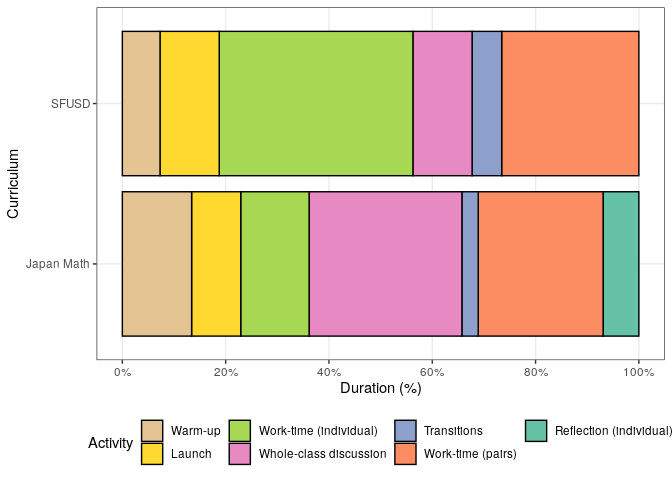
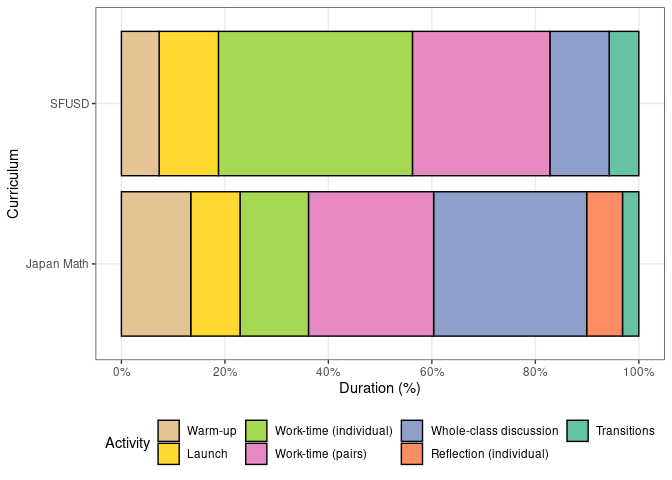
changes

diff --git a/bar_graphs.md b/bar_graphs.md
@@ -1,13 +1,17 @@
 Time charts for observed lessons
 ================
 Saurabh Khanna
-2020-04-22
+2020-04-27
 
   - [Time charts](#time-charts)
       - [Reading in data](#reading-in-data)
-      - [Graphs by percentage duration](#graphs-by-percentage-duration)
-      - [Graphs by total duration](#graphs-by-total-duration)
+      - [Graphs by grade level](#graphs-by-grade-level)
+          - [Percentage time](#percentage-time)
+          - [Total time](#total-time)
       - [SFUSD and JM](#sfusd-and-jm)
+      - [Old graphs](#old-graphs)
+          - [Percentage duration](#percentage-duration)
+          - [Total duration](#total-duration)
 
 ``` r
 # Libraries
@@ -22,60 +26,67 @@ library(readxl)
 ``` r
 df <-
   tribble(
-    ~school, ~teacher, ~act,                     ~time,
+    ~school, ~teacher, ~act,                     ~time, ~grade,
     
-    "S1",    "T1",     "Warm-up",                4,
-    "S1",    "T1",     "Launch",                 9,
-    "S1",    "T1",     "Work-time (individual)", 24,
-    "S1",    "T1",     "Whole-class discussion", 5,
-    "S1",    "T1",     "Transitions",             3,
+    "S1",    "T1",     "Warm-up",                4,     4,
+    "S1",    "T1",     "Launch",                 9,     4,
+    "S1",    "T1",     "Work-time (individual)", 24,    4,
+    "S1",    "T1",     "Whole-class discussion", 5,     4,
+    "S1",    "T1",     "Transitions",            3,     4,
     
-    "S1",    "T2",     "Warm-up",                2,
-    "S1",    "T2",     "Launch",                 8,
-    "S1",    "T2",     "Work-time (pairs)",      20,
-    "S1",    "T2",     "Whole-class discussion", 13,
-    "S1",    "T2",     "Transitions",             1,
+    "S1",    "T2",     "Warm-up",                2,     3,
+    "S1",    "T2",     "Launch",                 8,     3,
+    "S1",    "T2",     "Work-time (pairs)",      20,    3,
+    "S1",    "T2",     "Whole-class discussion", 13,    3,
+    "S1",    "T2",     "Transitions",             1,    3,
     
-    "S2",    "T1",     "Warm-up",                8,
-    "S2",    "T1",     "Launch",                 5,
-    "S2",    "T1",     "Work-time (pairs)",      14,
-    "S2",    "T1",     "Whole-class discussion", 4,  
-    "S2",    "T1",     "Transitions",             7,
+    "S2",    "T1",     "Warm-up",                8,     1,
+    "S2",    "T1",     "Launch",                 5,     1,
+    "S2",    "T1",     "Work-time (pairs)",      14,    1,
+    "S2",    "T1",     "Whole-class discussion", 4,     1,
+    "S2",    "T1",     "Transitions",             7,    1,
     
-    "S3",    "T2",     "Warm-up",                12,
-    "S3",    "T2",     "Launch",                 11,
-    "S3",    "T2",     "Work-time (pairs)",      17,
-    "S3",    "T2",     "Whole-class discussion", 20,
-    "S3",    "T2",     "Transitions",             4,
+    "S3",    "T2",     "Warm-up",                12,    2,
+    "S3",    "T2",     "Launch",                 11,    2,
+    "S3",    "T2",     "Work-time (pairs)",      17,    2,
+    "S3",    "T2",     "Whole-class discussion", 20,    2,
+    "S3",    "T2",     "Transitions",             4,    2,
     
-    "S3",    "T7",     "Warm-up",                9,
-    "S3",    "T7",     "Launch",                 10,
-    "S3",    "T7",     "Work-time (individual)", 23,
-    "S3",    "T7",     "Whole-class discussion", 29,
-    "S3",    "T7",     "Transitions",             4
+    "S3",    "T7",     "Warm-up",                9,     3,
+    "S3",    "T7",     "Launch",                 10,    3,
+    "S3",    "T7",     "Work-time (individual)", 23,    3,
+    "S3",    "T7",     "Whole-class discussion", 29,    3,
+    "S3",    "T7",     "Transitions",             4,    3
   ) %>%
   bind_rows(
     read_xlsx("data/ml_data.xlsx")
   ) %>%
   arrange(school, teacher) %>%
   mutate(
-    act = act %>% fct_inorder() %>% fct_rev(),
+    act = act %>% factor(levels = c("Warm-up", "Launch", "Work-time (individual)", "Work-time (pairs)", "Whole-class discussion", "Reflection (individual)", "Transitions")) %>% fct_rev(),
+  #  grade = grade %>% factor(levels = c("K", "1", "2", "3", "4", "5", "4/5")),
     teacher = teacher %>% fct_inorder() %>% fct_rev(),
     curriculum = if_else(school == "S3", "Japan Math", "SFUSD")
   )
 ```
 
-## Graphs by percentage duration
+## Graphs by grade level
+
+### Percentage time
 
 ``` r
-df %>%
+df %>% 
+  mutate(
+    teacher = teacher %>% fct_reorder2(school, grade)
+  ) %>% 
   group_by(school, teacher) %>%
   mutate(
    time = time / sum(time)
   ) %>%
   ungroup %>%
-  ggplot(aes(teacher, time, fill = act)) +
-  geom_col(position = "stack", color = "black") +
+  ggplot(aes(teacher, time)) +
+  geom_col(aes(fill = act), position = "stack", color = "black") +
+  geom_label(aes(x = teacher, y = 1.3, label = str_c("Grade ", grade)), hjust = 1) +
   scale_y_continuous(
     breaks = seq(0, 1, 0.2),
     minor_breaks = NULL,
@@ -95,16 +106,20 @@ df %>%
 
 ![](bar_graphs_files/figure-gfm/unnamed-chunk-3-1.png)<!-- -->
 
-## Graphs by total duration
+### Total time
 
 ``` r
 df %>% 
-  ggplot(aes(teacher, time, fill = act)) +
-  geom_col(position = "stack", color = "black") +
+  mutate(
+    teacher = teacher %>% fct_reorder2(school, grade)
+  ) %>% 
+  ggplot(aes(teacher, time)) +
+  geom_col(aes(fill = act), position = "stack", color = "black") +
+  geom_label(aes(x = teacher, y = 100, label = str_c("Grade ", grade)), hjust = 1) +
   scale_fill_brewer(palette = "Set2") +
   guides(fill = guide_legend(reverse = T)) +
   scale_y_continuous(
-    breaks = seq(0, 80, 10)
+    breaks = seq(0, 100, 10)
   ) +
   coord_flip() +
   theme_bw() +
@@ -150,3 +165,58 @@ df %>%
 ```
 
 ![](bar_graphs_files/figure-gfm/unnamed-chunk-5-1.png)<!-- -->
+
+## Old graphs
+
+### Percentage duration
+
+``` r
+df %>%
+  group_by(school, teacher) %>%
+  mutate(
+   time = time / sum(time)
+  ) %>%
+  ungroup %>%
+  ggplot(aes(teacher, time, fill = act)) +
+  geom_col(position = "stack", color = "black") +
+  scale_y_continuous(
+    breaks = seq(0, 1, 0.2),
+    minor_breaks = NULL,
+    labels = scales::percent_format(accuracy = 1)
+  ) +
+  scale_fill_brewer(palette = "Set2") +
+  guides(fill = guide_legend(reverse = T)) +
+  theme_bw() +
+  coord_flip() +
+  facet_grid(vars(school), scales = "free_y") +
+  labs(
+    x = "Teacher",
+    y = "Duration (%)",
+    fill = "Activity"
+  )
+```
+
+![](bar_graphs_files/figure-gfm/unnamed-chunk-6-1.png)<!-- -->
+
+### Total duration
+
+``` r
+df %>%
+  ggplot(aes(teacher, time, fill = act)) +
+  geom_col(position = "stack", color = "black") +
+  scale_fill_brewer(palette = "Set2") +
+  guides(fill = guide_legend(reverse = T)) +
+  scale_y_continuous(
+    breaks = seq(0, 80, 10)
+  ) +
+  coord_flip() +
+  theme_bw() +
+  facet_grid(vars(school), scales = "free_y") +
+  labs(
+    x = "Teacher",
+    y = "Duration (minutes)",
+    fill = "Activity"
+  )
+```
+
+![](bar_graphs_files/figure-gfm/unnamed-chunk-7-1.png)<!-- -->
